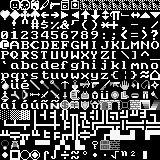
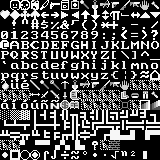
Consolidated files from mapdev

diff --git a/Map creator/constants.py b/Map creator/constants.py
@@ -86,7 +86,7 @@ chars_menu = {
     (106, 18): (230, "c"),
     (108, 18): (231, "c"),
     (110, 18): (232, "c"),
-    # Symbols
+    # Icons
     # Row One
     (86, 21): (1, ""),
     (88, 21): (2, ""),
@@ -115,6 +115,20 @@ chars_menu = {
     (106, 23): (24, ""),
     (108, 23): (25, ""),
     (110, 23): (26, ""),
+    # Row Three
+    (86, 25): (174, "d"),
+    (88, 25): (175, "u"),
+    (90, 25): (172, ""),
+    (92, 25): (166, ""),
+    (94, 25): (167, ""),
+    (96, 25): (151, ""),
+    (98, 25): (176, ""),
+    (100, 25): (177, ""),
+    (102, 25): (178, ""),
+    (104, 25): (231, ""),
+    (106, 25): (15, ""),
+    (108, 25): (15, ""),
+    (110, 25): (15, ""),
 }
 
 # Colors dict
